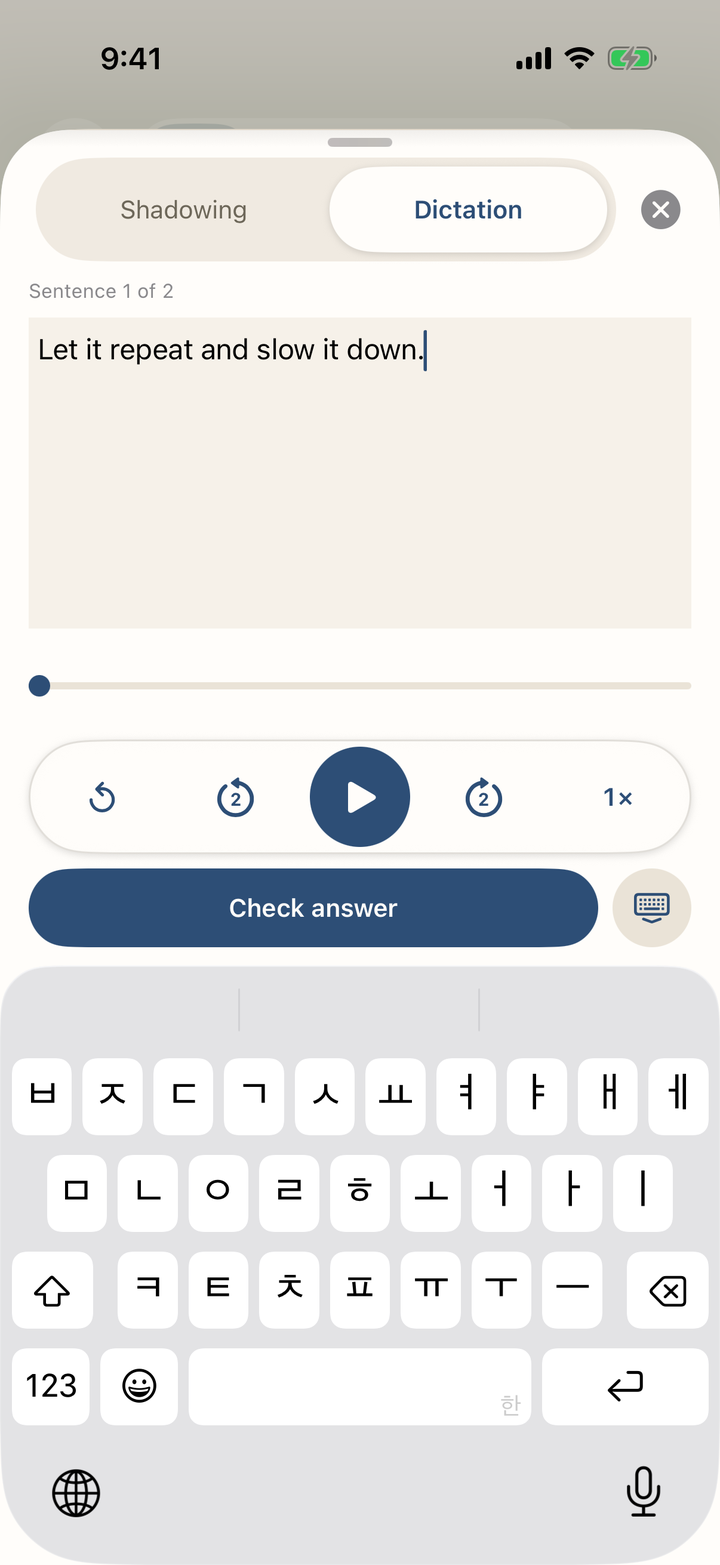
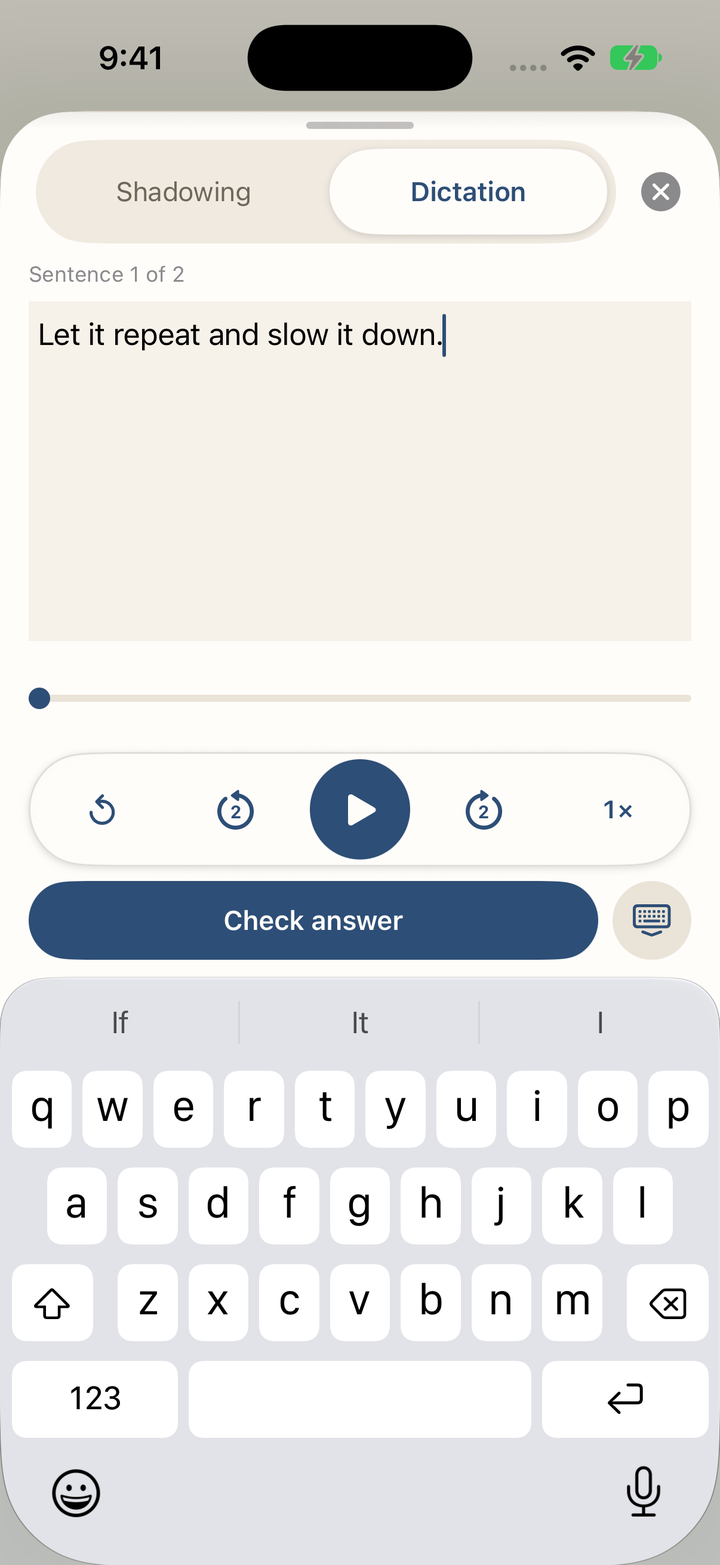
docs: clarify example languages and recapture English dictation keyboard using Codex GPT-6

diff --git a/en.md b/en.md
@@ -384,7 +384,7 @@ Progress appears while translation runs. Closing the app or player pauses the jo
 
 The speech-bubble button toggles **Original only** and **Original + translation**. In **··· > Translation**, explicitly choose **Translation only**, change language, continue or retry, or delete saved AI translation. For bilingual video files, file translation and AI translation are separate sources (11-4).
 
-*▲ Original + translation, with the speech-bubble control above the list*
+※ Example: translating English subtitles into Japanese. Choose your preferred target language in **AI Translation** from the supported languages.
 
 If Apple Intelligence is off or its model is not ready, Phrabbit explains why. The control is hidden on unsupported devices and iOS versions. Machine translation can mishandle names, cultural expressions, and specialist terms, so compare important material with the original.
 
@@ -434,6 +434,8 @@ If Apple Intelligence is available, an **AI Explanation** section may appear. Ta
 
 ![AI Explanation](images/iphone/16-wordbook-ai-explanation.png)
 *▲ AI Explanation generated for the selected word in context*
+
+※ This screenshot uses Korean UI and Korean content to illustrate the feature. See the supported-language requirements and other conditions below.
 
 This section appears only when all of the following are true.
 
@@ -552,6 +554,8 @@ The same settings sheet contains range subtitle generation, **Subtitle Sync…**
 UTF-8 is recommended. UTF-16 with a byte-order mark and common legacy SMI encodings are also supported; if a file cannot be read, save it as UTF-8 and try again.
 
 ![Preview original and file-translation tracks](images/iphone/42-bilingual-subtitle-import.png)
+
+※ This example uses English original subtitles and a Korean translation. Both tracks come from the subtitle file; the translation is not generated by AI. The languages shown depend on the file you import.
 
 <details>
 <summary>Video subtitle settings</summary>
